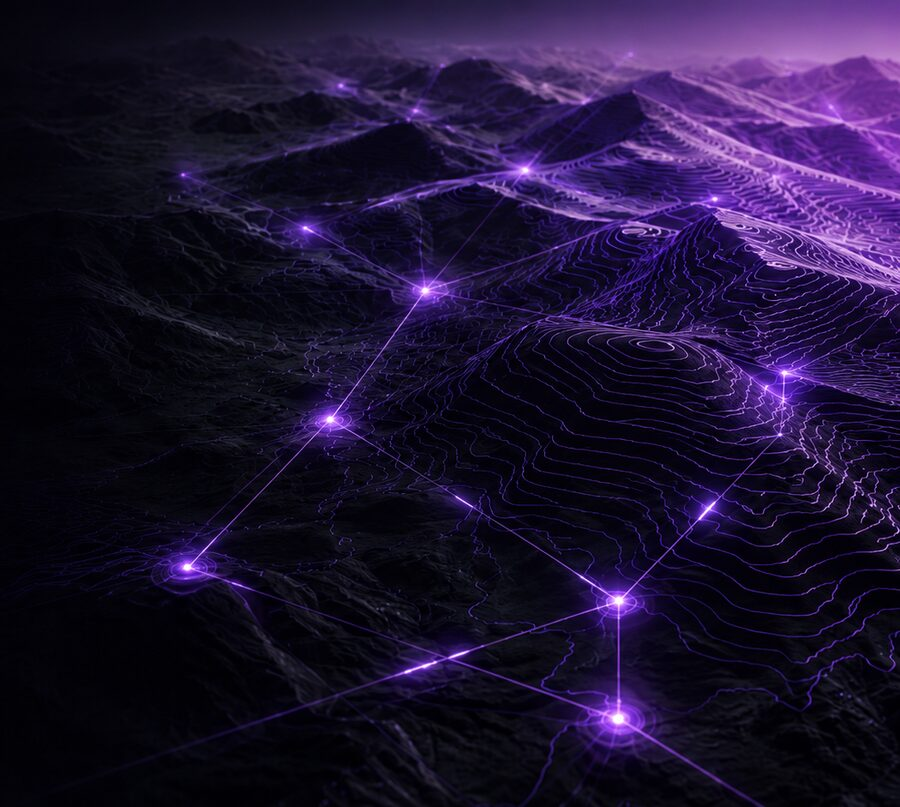
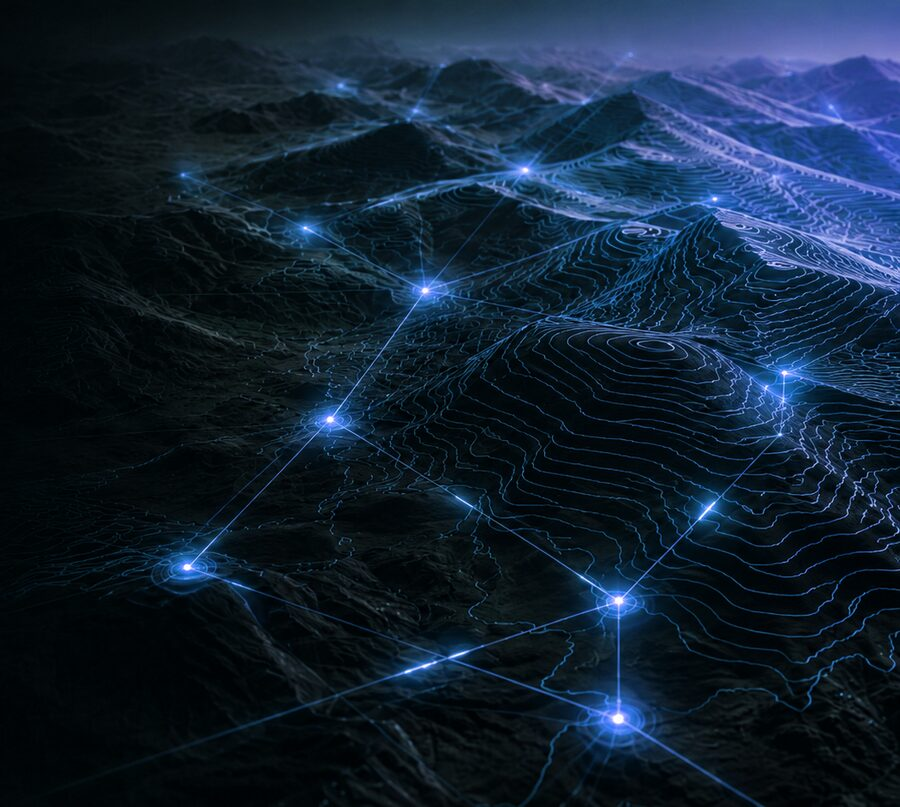
Hue-shift the hero terrain to the site's blue; keep the site palette as-is
The hero art was violet, which is my error — I read the palette off
src/App.css and src/index.css, which are dead Vite scaffolding nothing
imports, rather than styles/custom.scss, which is the live blue.

Rather than repaint the site around the art, the art is hue-shifted to the
site: -50 degrees, landing the survey nodes at #4983E4, inside the existing
blue family. Buttons, headline gradient, hero badge and the load-in rule are
all back to their original $nt-blue / $nt-red values, untouched.

The hero ground also moves from #16171d (the violet render's near-black) to
$nt-dark, so the section sits on the same navy as every other section
instead of reading as a foreign panel.

$nv-accent now tracks $nt-blue. It stays a separate token so the overlay can
be re-tinted in one place if the art is ever regenerated.

Re-verified after the recolour: 15 nodes, 13 links, 4 signals, 0 nodes in the
left third, and 0 collisions with text on mobile.

diff --git a/src/styles/custom.scss b/src/styles/custom.scss
@@ -12,6 +12,13 @@ $nt-gold:        #f59e0b;
 $nt-text:        #e2e8f0;
 $nt-muted:       #94a3b8;
 
+// Hero network accent. Tracks the site's blue — the terrain render is
+// hue-shifted to match it, so these are deliberately $nt-blue and not a
+// separate colour. Kept as their own tokens so the overlay can be re-tinted in
+// one place if the background art is ever regenerated.
+$nv-accent:      #2563eb;
+$nv-accent-lite: #60a5fa;
+
 // Bootstrap variable overrides (must come before import)
 $primary:         $nt-blue;
 $secondary:       $nt-red;
@@ -194,11 +201,8 @@ body {
 }
 
 // ── Hero ─────────────────────────────────────────────────────────────────────
-// The hero accent. Set to match the terrain render, which is violet; the rest
-// of the site runs on $nt-blue. Change this one value to re-tint the whole
-// network overlay if the background image is ever recoloured.
-$nv-accent:      #aa3bff;
-$nv-accent-lite: #c084fc;
+// $nv-accent / $nv-accent-lite are declared with the other colour tokens at the
+// top of this file — the buttons need them before this point.
 
 .nt-hero {
   min-height: 100vh;
@@ -207,7 +211,7 @@ $nv-accent-lite: #c084fc;
   position: relative;
   isolation: isolate; // keeps the layers below out of the page's stacking order
   overflow: hidden;
-  background: #16171d;
+  background: $nt-dark;
   padding: 6rem 0 4rem;
 
   // ── Layer 1: terrain ────────────────────────────────────────────────────
@@ -215,7 +219,7 @@ $nv-accent-lite: #c084fc;
     position: absolute;
     inset: 0;
     z-index: 0;
-    background: #16171d url('/nv-hero.jpg') center right / cover no-repeat;
+    background: $nt-dark url('/nv-hero.jpg') center right / cover no-repeat;
   }
 
   // ── Layer 2: readability gradient ───────────────────────────────────────
@@ -227,10 +231,10 @@ $nv-accent-lite: #c084fc;
     z-index: 1;
     background: linear-gradient(
       90deg,
-      rgba(22, 23, 29, 0.98) 0%,
-      rgba(22, 23, 29, 0.92) 28%,
-      rgba(22, 23, 29, 0.55) 52%,
-      rgba(22, 23, 29, 0.08) 100%
+      rgba(6, 16, 30, 0.98) 0%,
+      rgba(6, 16, 30, 0.92) 28%,
+      rgba(6, 16, 30, 0.55) 52%,
+      rgba(6, 16, 30, 0.08) 100%
     );
   }
 
@@ -440,10 +444,10 @@ $nv-accent-lite: #c084fc;
     .nv-scrim {
       background: linear-gradient(
         180deg,
-        rgba(22, 23, 29, 0.97) 0%,
-        rgba(22, 23, 29, 0.95) 40%,
-        rgba(22, 23, 29, 0.86) 62%,
-        rgba(22, 23, 29, 0.45) 100%
+        rgba(6, 16, 30, 0.97) 0%,
+        rgba(6, 16, 30, 0.95) 40%,
+        rgba(6, 16, 30, 0.86) 62%,
+        rgba(6, 16, 30, 0.45) 100%
       );
     }
   }
@@ -1075,4 +1079,44 @@ $nv-accent-lite: #c084fc;
   opacity: 1 !important;
   transform: none !important;
   transition: none !important;
+}
+
+// ─── Hero load-in ─────────────────────────────────────────────────────────────
+// Above-the-fold text rises into place on first paint, one line after the next,
+// with a rule that draws itself left-to-right underneath. Pure CSS — driving it
+// from JS lets the text paint first and then jump on a slow connection, which is
+// worse than no animation. Stagger reads from --i so any number of lines share
+// one class. This is the load-time counterpart to the AOS scroll reveals further
+// down; a hero is already on screen, so a scroll trigger never fires cleanly.
+@keyframes load-fade-up { from { opacity: 0; transform: translateY(28px); } to { opacity: 1; transform: none; } }
+@keyframes load-draw-x  { from { transform: scaleX(0); } to { transform: scaleX(1); } }
+
+.load-in {
+  animation: load-fade-up .7s cubic-bezier(.25, 0, .35, 1) both;
+  animation-delay: calc(.05s + var(--i, 0) * .14s);
+}
+
+// inline-block so the rule is as wide as the words, not the whole column.
+.draw-rule { position: relative; display: inline-block; }
+.draw-rule::after {
+  content: "";
+  position: absolute;
+  left: 0; bottom: -8px;
+  height: 2px; width: 100%;
+  background: #60a5fa; // blue-light — the red accent goes muddy on the dark hero ground
+  transform-origin: left center;
+  animation: load-draw-x .5s ease-out both;
+  animation-delay: calc(.05s + var(--i, 0) * .14s + .35s);
+}
+
+// The @media (hover: none) tap-target rules set display: inline-flex on buttons
+// and links; restated here so that can never strip the rule's inline-block and
+// stretch it to the full column. Two-class selector rather than !important.
+.nt-hero .draw-rule { display: inline-block; }
+
+@media (prefers-reduced-motion: reduce) {
+  .load-in,
+  .draw-rule::after { animation: none !important; }
+  .load-in { opacity: 1 !important; transform: none !important; }
+  .draw-rule::after { transform: scaleX(1) !important; }
 }

diff --git a/src/components/Hero.jsx b/src/components/Hero.jsx
@@ -13,21 +13,21 @@ function Hero() {
       <Container>
         <Row className="align-items-center g-5">
           <Col lg={6}>
-            <div className="hero-badge">Technology. Operations. Impact.</div>
-            <h1>
-              Practical Solutions. <span className="gradient-text">Real-World Results.</span>
+            <div className="hero-badge load-in" style={{ '--i': 0 }}>Technology. Operations. Impact.</div>
+            <h1 className="load-in" style={{ '--i': 1 }}>
+              Practical Solutions. <span className="gradient-text draw-rule" style={{ '--i': 1 }}>Real-World Results.</span>
             </h1>
-            <p className="hero-sub">
+            <p className="hero-sub load-in" style={{ '--i': 2 }}>
               Nouvela Technology Group LLC delivers high-value solutions across software engineering,
               administrative support, geospatial services, and program management — helping organizations
               improve operations and support mission success.
             </p>
-            <div className="d-flex gap-3 flex-wrap">
+            <div className="d-flex gap-3 flex-wrap load-in" style={{ '--i': 3 }}>
               <a href="#govcon" className="btn-nt-primary text-decoration-none">Government Contracting</a>
               <a href="#contact" className="btn-nt-outline text-decoration-none">Get in Touch</a>
             </div>
 
-            <div className="hero-stats">
+            <div className="hero-stats load-in" style={{ '--i': 4 }}>
               <div className="stat">
                 <div className="stat-value">SAM</div>
                 <div className="stat-label">Active Registrant</div>
